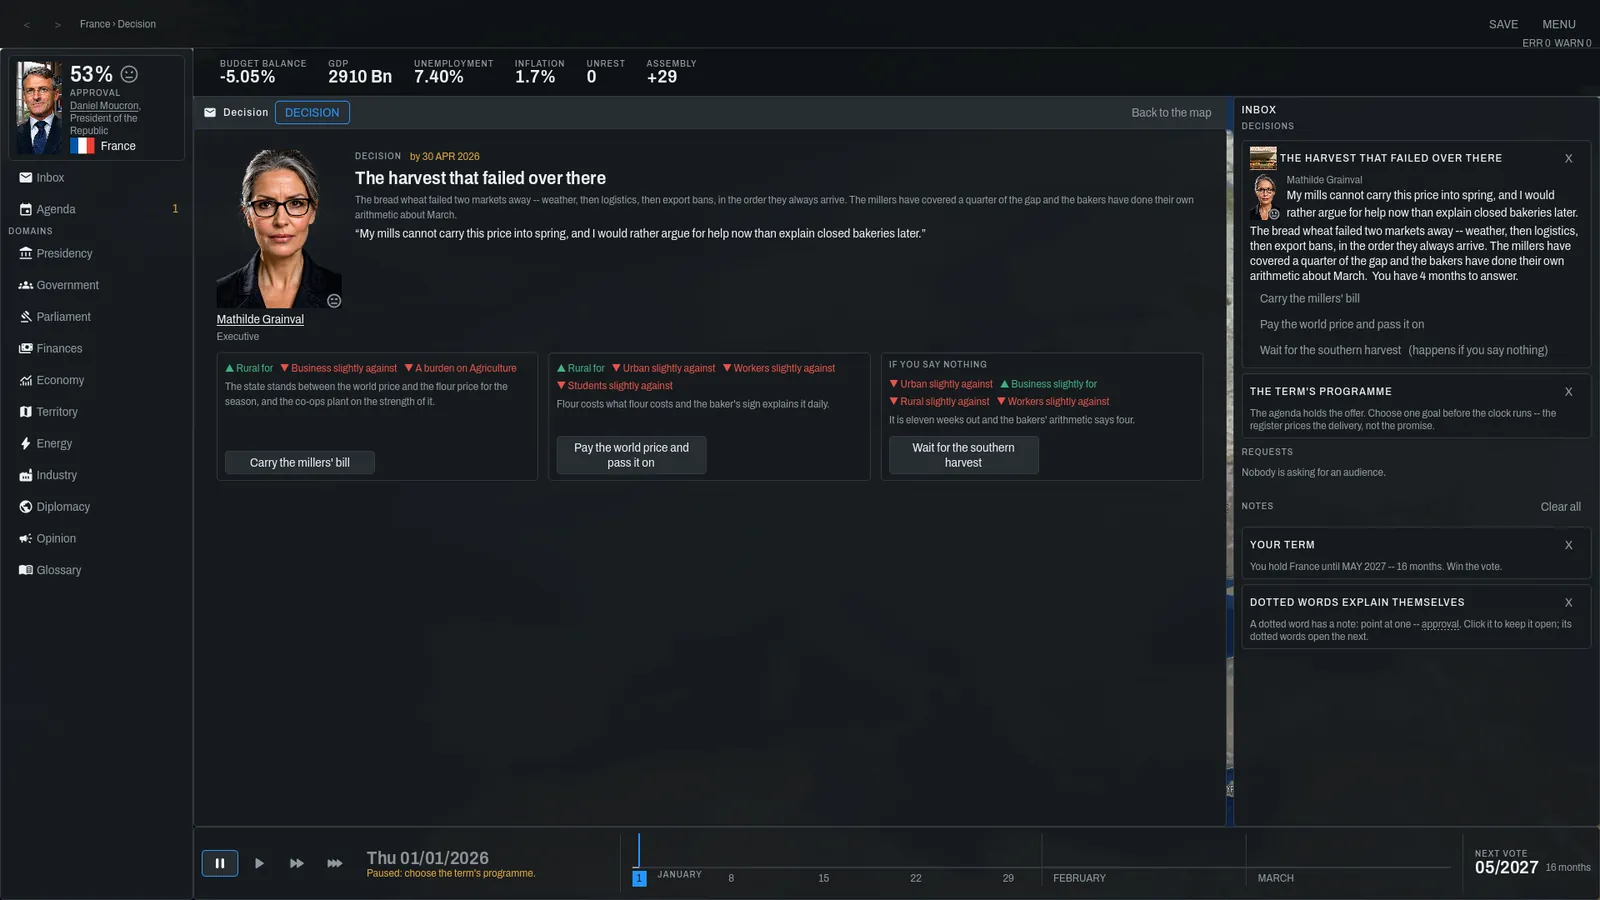
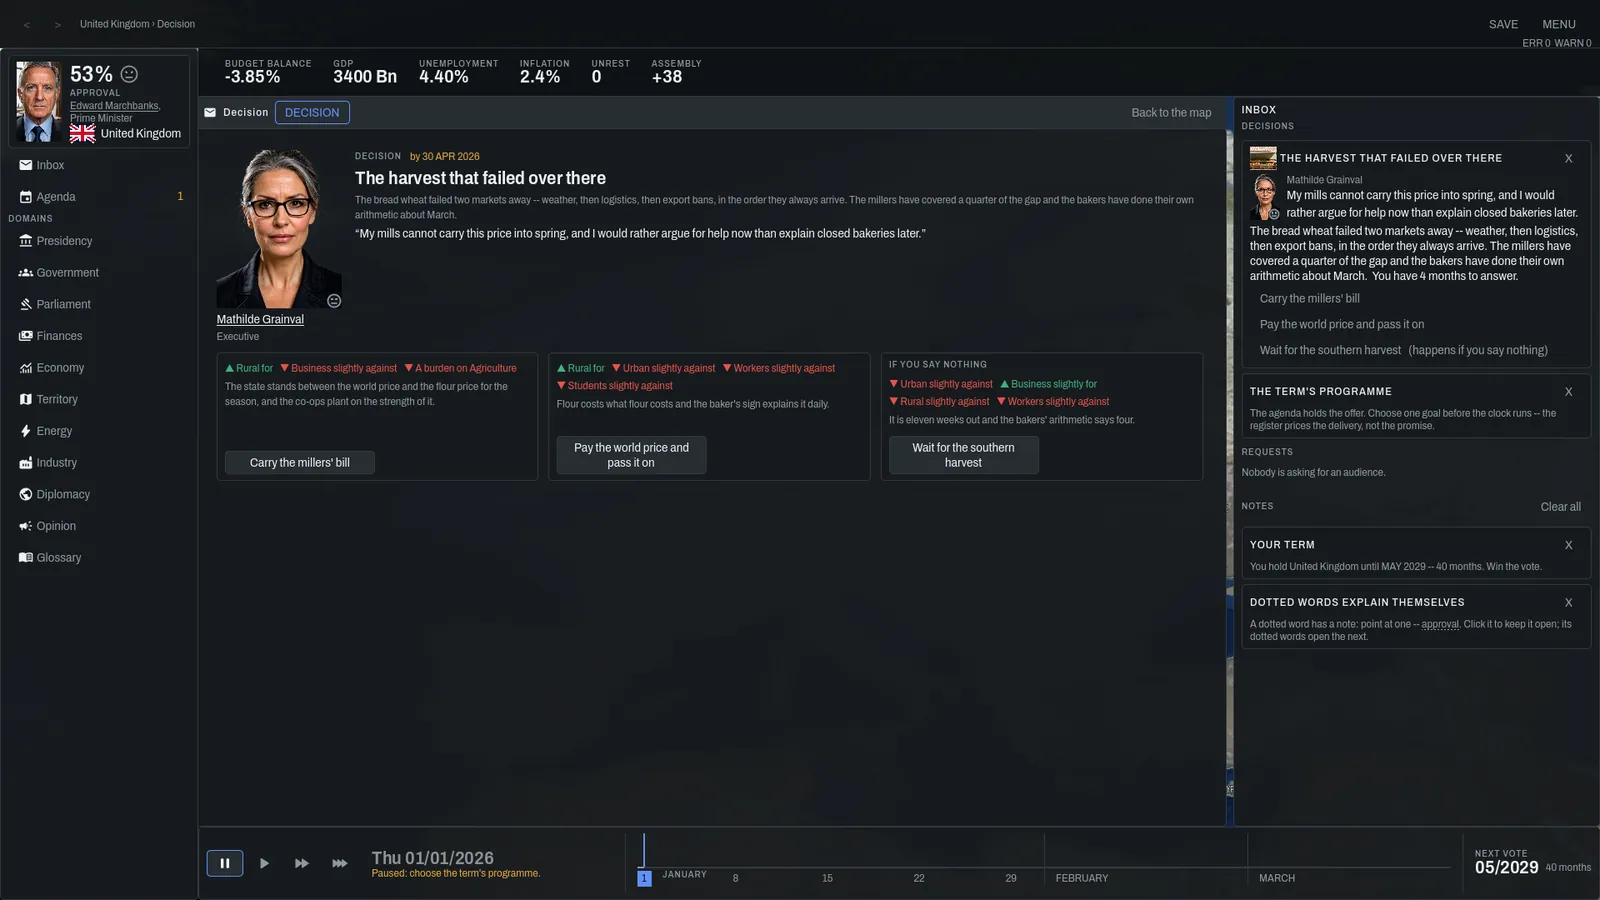
README: reshoot the pictures playing the United Kingdom, no CC BY-SA portrait on screen
The first frames showed two photograph-grounded portraits (CC BY-SA) inside docs/**
(CC BY-NC). Frames now play Britain, whose leader's portrait is text-generated, and
every other visible face was checked against REUSE.toml. The credit line added for the
earlier frames is dropped.

diff --git a/README.md b/README.md
@@ -102,9 +102,6 @@ covers which file, and the texts are in [LICENSES/](LICENSES/):
 Commercial use of the code, content or text-generated art needs the author's
 permission. Data sources are credited in [ATTRIBUTION.md](ATTRIBUTION.md).
 
-The screenshots under `docs/screenshots/` show the game's own portraits, so the portrait
-credits above apply to them too.
-
 Every person in the game is fictional. Names and parties are invented, and where a
 portrait was grounded on a photograph of a real politician, that photograph is
 credited, as its licence requires.
